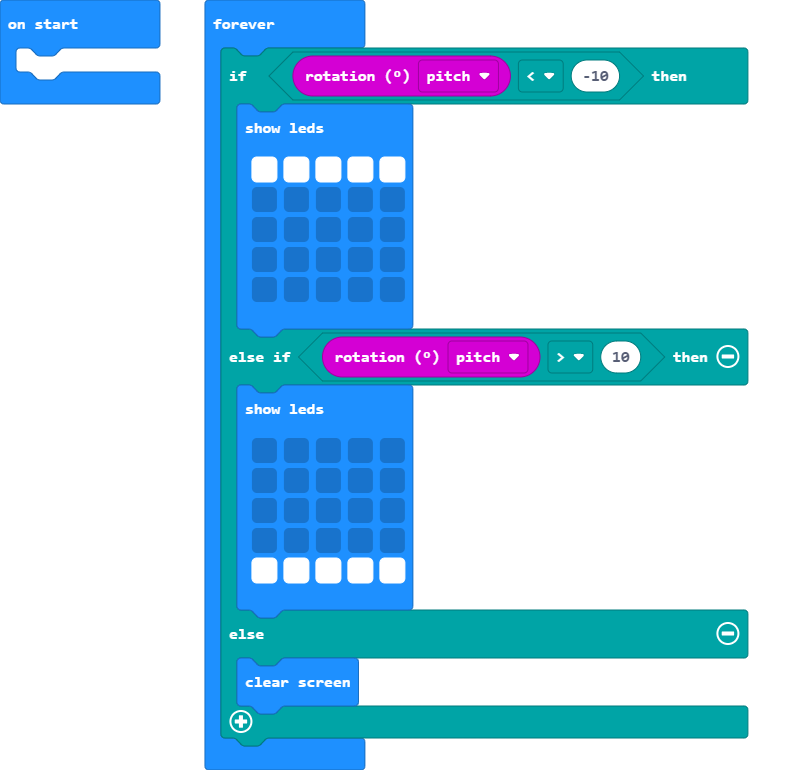
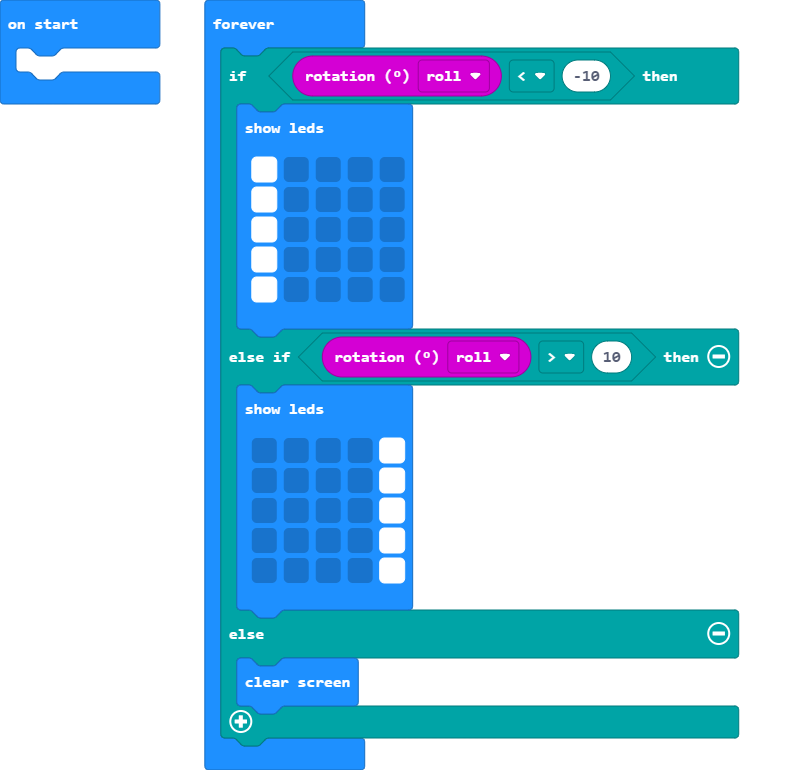
Update main.blocks, main.ts

diff --git a/main.ts b/main.ts
@@ -1,19 +1,19 @@
 basic.forever(function () {
-    if (input.rotation(Rotation.Pitch) < -10) {
+    if (input.rotation(Rotation.Roll) < -10) {
         basic.showLeds(`
-            # # # # #
-            . . . . .
-            . . . . .
-            . . . . .
-            . . . . .
+            # . . . .
+            # . . . .
+            # . . . .
+            # . . . .
+            # . . . .
             `)
-    } else if (input.rotation(Rotation.Pitch) > 10) {
+    } else if (input.rotation(Rotation.Roll) > 10) {
         basic.showLeds(`
-            . . . . .
-            . . . . .
-            . . . . .
-            . . . . .
-            # # # # #
+            . . . . #
+            . . . . #
+            . . . . #
+            . . . . #
+            . . . . #
             `)
     } else {
         basic.clearScreen()
